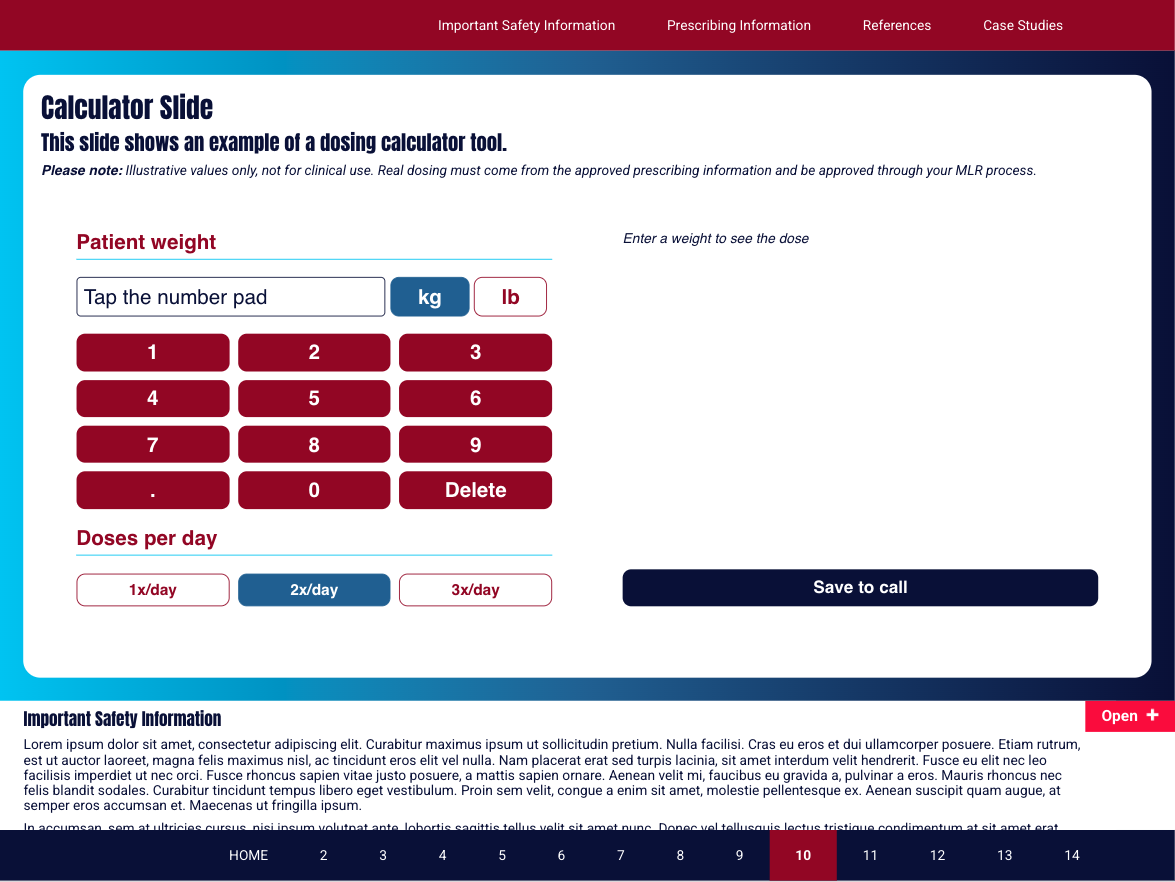
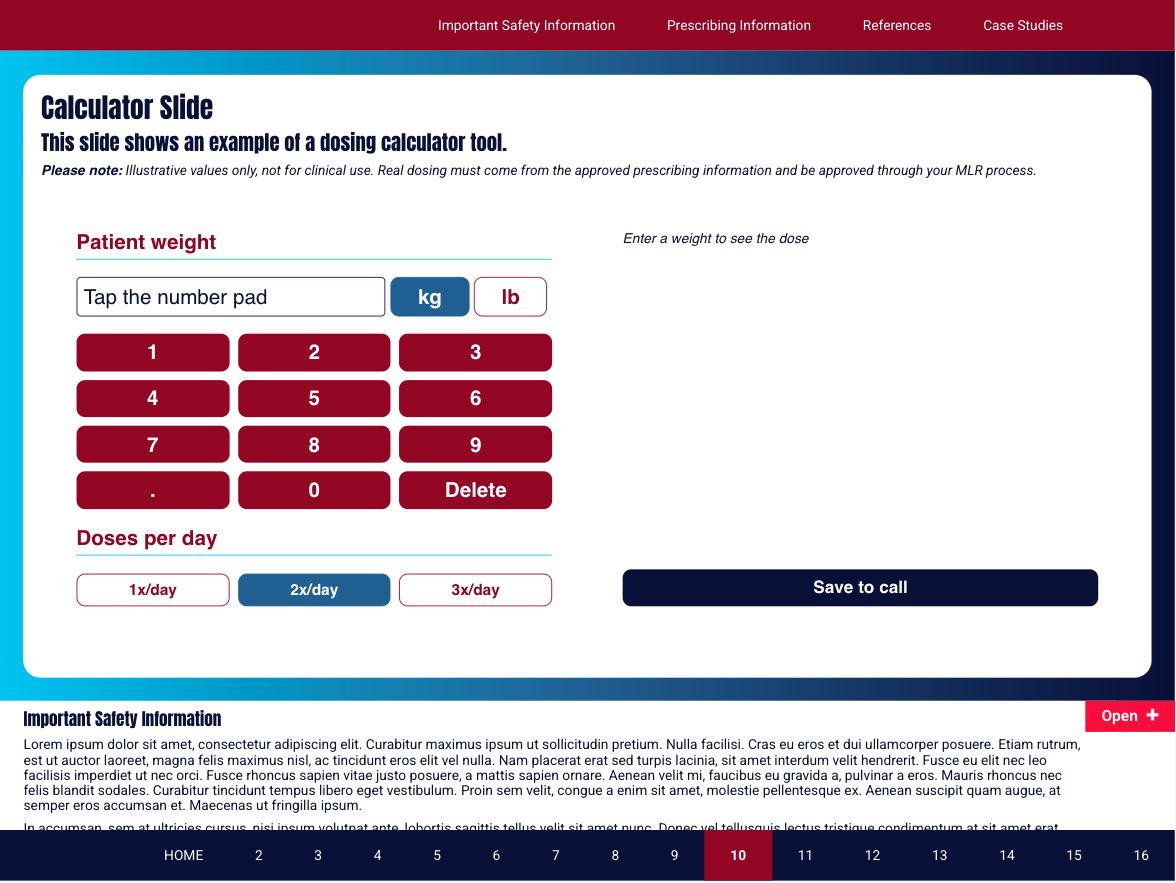
updated thumbs, adding 2 slides to readme

diff --git a/README.md b/README.md
@@ -18,6 +18,9 @@ This is a base app template build for the Veeva CRM platform.  This will compile
 | playground12 | Resources (Scroll) |
 | playground13 | Resources (Tabbed) |
 | playground14 | PDF Library |
+| playground15 | Email |
+| playground16 | RTE w/ Fragments |
+
 
 ## Requirements
 
